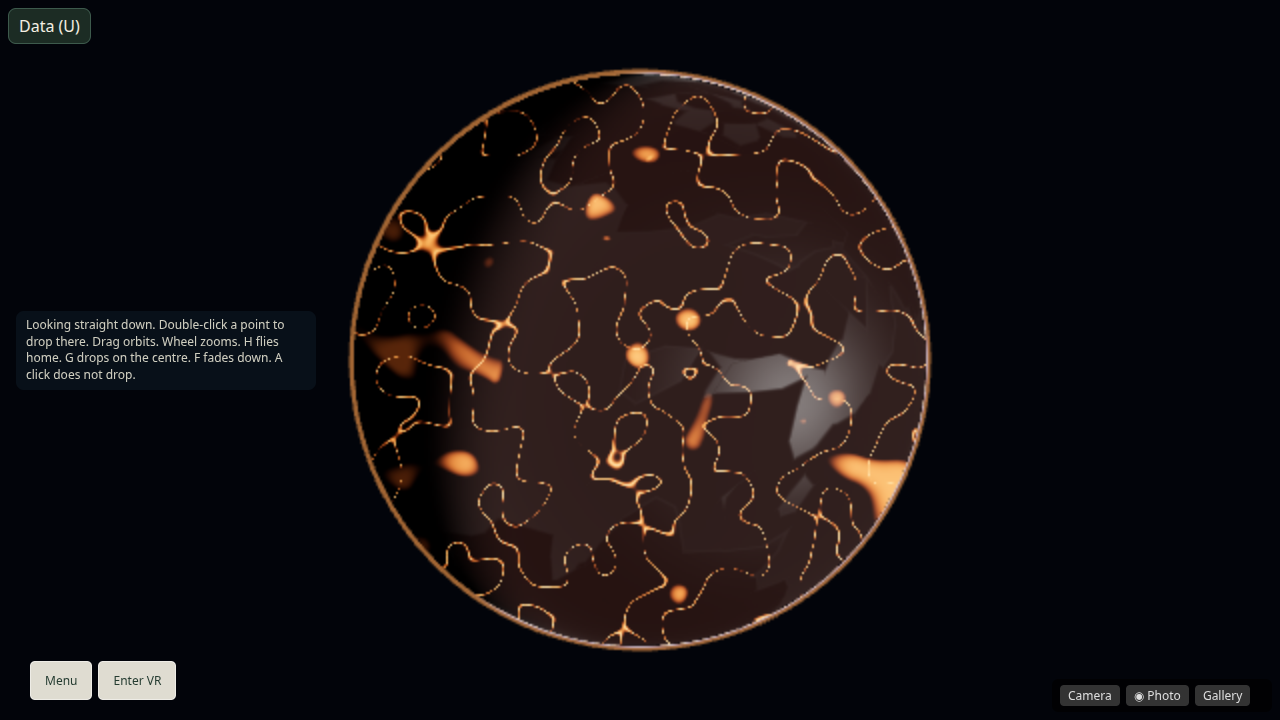
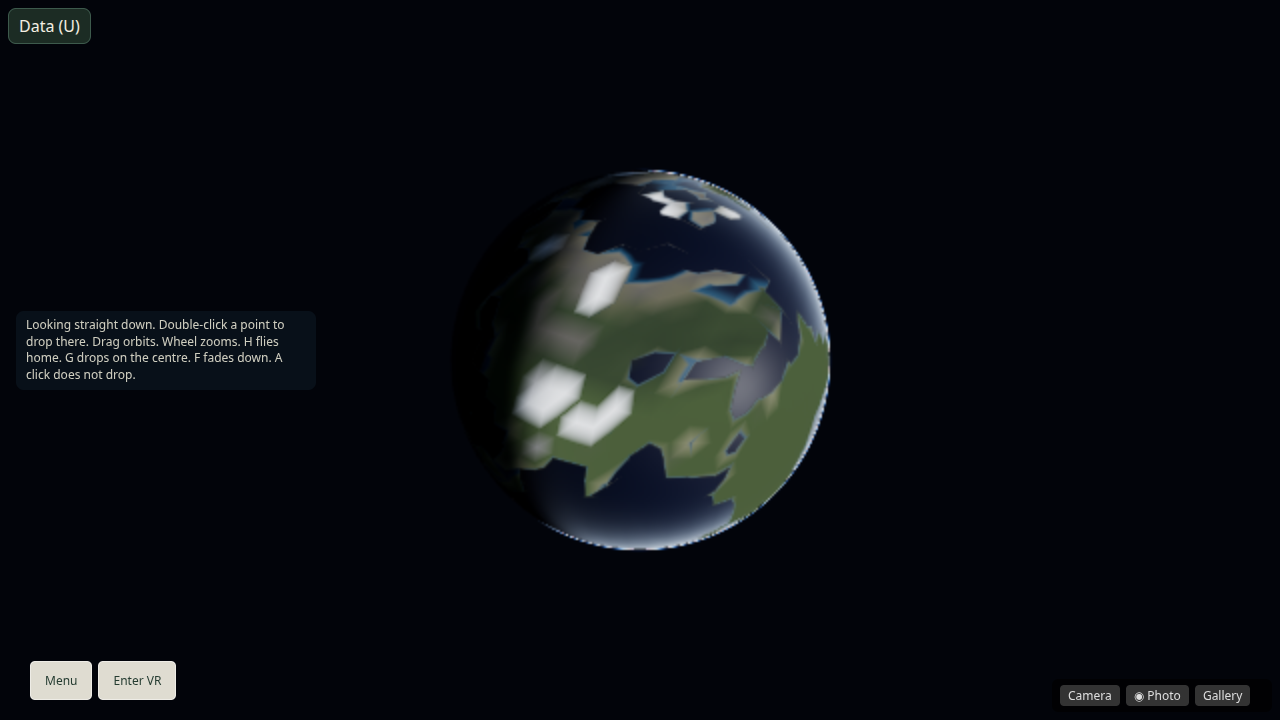
fix: land a skip on today's Earth (T-0219)
Escape jumps the film clock to the ending, paints that epoch, and then
uses the same finish as watching through. The arrival camera is placed
before release, so the globe is not left on the opening magma tint.

Changed region(s): [[0.25, 0.0917, 0.75, 0.9167]]

diff --git a/tests/cine-ready.test.ts b/tests/cine-ready.test.ts
@@ -6,6 +6,7 @@ import { cineArrivalDue, stepCineBoot } from '../src/world/cosmos/cineReady';
 import { createOpening } from '../src/world/cosmos/opening';
 import { cineLayerGateState } from '../src/world/globe/planetLayers';
 import { bootChoice, createContext, markBigBangSeen } from '../src/core/events';
+import { GLOBE_ERA, GLOBE_SKY } from '../src/world/globe/tile';
 import { BOOT_SAMPLES_MS, CINE_BOOT_TIMEOUT_S, CINE_HOLD_MARGIN, CINE_HOLD_S, PREWARM_SAMPLES_MS } from '../src/world/globe/bootReady';
 
 const boot = (over: Partial<Parameters<typeof stepCineBoot>[0]> = {}) => ({
@@ -213,6 +214,39 @@ function film(opts: { search?: string; reduced?: boolean; ready: () => Promise<v
   return { w, opening, probe, run, get shows() { return shows; }, get planets() { return planets; }, get marks() { return marks; }, get seen() { return ctx.introComplete === true; } };
 }
 
+function resetGlobeEra() {
+  GLOBE_ERA.uEra.value.set(0, 0, 0, 0);
+  GLOBE_ERA.uCrack.value = 1;
+  GLOBE_SKY.warm = 0;
+  GLOBE_SKY.steam = 0;
+  GLOBE_SKY.clear = 0;
+  GLOBE_SKY.hold = 0;
+}
+
+/** The era mix the globe shader uses, as one land/ocean colour. Today (w = 1) is the present sample. */
+function epochView() {
+  const era = GLOBE_ERA.uEra.value;
+  const x = Math.min(1, Math.max(0, era.x));
+  const y = Math.min(1, Math.max(0, era.y));
+  const z = Math.min(1, Math.max(0, era.z));
+  const w = Math.min(1, Math.max(0, era.w));
+  const crack = Math.min(1, Math.max(0, GLOBE_ERA.uCrack.value));
+  const crust = [0.03 + 0.27 * (1 - x), 0.01 + 0.24 * (1 - x), 0.008 + 0.192 * (1 - x)];
+  const magma = [1.85, 0.42, 0.07];
+  const skin = crust.map((c, i) => c * (1 - crack) + magma[i] * crack);
+  const flooded = 0.5 * (y <= 0.08 ? 0 : y >= 0.72 ? 1 : (y - 0.08) / 0.64) * (1 - x);
+  const ocean = [0.008, 0.028, 0.09];
+  const wet = skin.map((c, i) => c * (1 - flooded) + ocean[i] * flooded);
+  const plants = 0.5 * (z <= 0.4 ? 0 : Math.min(1, (z - 0.4) / 0.14));
+  const leaf = [0.09, 0.38, 0.08];
+  const grown = wet.map((c, i) => c * (1 - plants) + leaf[i] * plants);
+  const present = [0.18, 0.33, 0.14];
+  const presentMix = 1 - (1 - w) * (1 - w);
+  const colour = grown.map((c, i) => c * (1 - presentMix) + present[i] * presentMix);
+  const label = w >= 0.999 && x <= 0.001 ? 'Today' : 'earlier';
+  return { label, colour };
+}
+
 test('first-visit readiness paths', { concurrency: false }, async (t) => {
   await t.test('a settling boot keeps B14 arrival, one save mark, and the layer gate', async () => {
     const f = film({ ready: () => Promise.resolve() });
@@ -345,25 +379,41 @@ test('first-visit readiness paths', { concurrency: false }, async (t) => {
     assert.equal(f.w.events.length, 1);
   });
 
-  await t.test('Escape at about 5 s reaches the globe within 2 s', async () => {
+  await t.test('Escape at about 5 s reaches Today through the same finish as the ending', async () => {
+    resetGlobeEra();
     const f = film({ ready: () => Promise.resolve() });
     f.probe.begin();
     await Promise.resolve();
     while (f.probe.elapsed < 5) f.opening.step(0.5);
     assert.ok(f.probe.elapsed >= 5 && f.probe.elapsed < 5.6, `film clock ${f.probe.elapsed}`);
     assert.equal(f.planets, 0);
-    const at = f.probe.elapsed;
     const win = globalThis as unknown as { window: { dispatchEvent: (e: unknown) => void }; document: { body: unknown; getElementById: (id: string) => unknown } };
     win.window.dispatchEvent({
       type: 'keydown', key: 'Escape', code: 'Escape', repeat: false, target: win.document.body,
       preventDefault() {}, stopPropagation() {}, stopImmediatePropagation() {},
     });
     assert.equal(f.planets, 1, 'the planet entry did not run');
-    assert.ok(f.probe.elapsed < at + 2, `globe waited until ${f.probe.elapsed}`);
+    assert.ok(f.probe.elapsed >= CINE.b14End, `clock stopped at ${f.probe.elapsed}`);
+    assert.equal(formatClock(f.probe.elapsed), 'Today');
     assert.equal(f.marks, 1);
     assert.equal(f.seen, true);
-    assert.equal(f.w.events.filter(e => e === 'cinematic:dismiss').length, 1);
+    assert.equal(f.w.events.filter(e => e === 'cinematic:complete').length, 1);
     assert.equal(win.document.getElementById('cine'), null);
+    const skip = epochView();
+    resetGlobeEra();
+    const done = film({ ready: () => Promise.resolve() });
+    done.probe.begin();
+    await Promise.resolve();
+    for (let i = 0; i < 200 && done.planets === 0; i++) done.opening.step(1);
+    assert.equal(done.planets, 1);
+    assert.equal(formatClock(done.probe.elapsed), 'Today');
+    const natural = epochView();
+    assert.equal(skip.label, natural.label);
+    assert.equal(skip.label, 'Today');
+    for (let i = 0; i < 3; i++) {
+      const rel = Math.abs(skip.colour[i] - natural.colour[i]) / Math.max(0.02, Math.abs(natural.colour[i]));
+      assert.ok(rel <= 0.10, `channel ${i} skip ${skip.colour[i].toFixed(3)} vs finish ${natural.colour[i].toFixed(3)}`);
+    }
   });
 
   await t.test('reduced motion still lands and does not arm the cinematic layer gate', async () => {

diff --git a/src/world/cosmos/opening.ts b/src/world/cosmos/opening.ts
@@ -240,7 +240,24 @@ export function createOpening(onPlanet: () => void, onBegin?: () => void, earth?
       sphere.setFraming(50 + (46 - 50) * u, reduced ? 1 : 1 + Math.max(0, Math.min(1, (elapsed - bangAt(end)) / 1.2)) * 0.18);
       if (!busy) { busy = true; void paintSim().finally(() => { busy = false; }); }
     },
-    skip() { land('cinematic:dismiss'); },
+    skip() {
+      if (arrived || stopped) return;
+      if (!begun) begin();
+      // The ending paints Today and the arrival camera, then lands. Jump the
+      // clock there and run that same paint, so a skip does not leave the
+      // magma uniform or the page-load orbit from the start of the film.
+      if (narrationEndedAt == null) narrationEndedAt = narrationEndFallback();
+      pinned = null;
+      elapsed = CINE.b14End;
+      if (!earthOn) {
+        earthOn = true;
+        earth?.show();
+      }
+      if (!booted) bootGaveUp = true;
+      tintGlobe(elapsed);
+      driveFilm(elapsed);
+      paintDom();
+    },
     stop() {
       if (stopped) return;
       stopped = true;

diff --git a/src/world/globe/globeView.ts b/src/world/globe/globeView.ts
@@ -791,6 +791,12 @@ export function createGlobe(renderer: THREE.WebGLRenderer, opts: GlobeOptions) {
       filmOffset = offset;
       filmSpin.setFromAxisAngle(filmAxis, yaw);
       alt = targetAlt = R * radii;
+      dir.copy(filmHome).applyQuaternion(filmSpin);
+      ground = surfaceRadius(planet, [dir.x, dir.y, dir.z]) - R;
+      camera.up.set(0, 1, 0);
+      camera.position.copy(dir).multiplyScalar(R + ground + alt);
+      camera.lookAt(0, 0, 0);
+      camera.clearViewOffset();
     },
     /** Aim the centre at a game-local spot without starting the fall. The next G, before a drag, drops there. */
     lookOver,

diff --git a/tasks/handoffs/T-0219-grokbot-2.md b/tasks/handoffs/T-0219-grokbot-2.md
@@ -4,19 +4,19 @@ Branch `grokbot-2/intro-skip`, off main `0e2cf8e4`.
 
 ## Doing
 
-The first-visit film now leaves on Escape, space, or a click after it has started. The exit is `land('cinematic:dismiss')`: the T-0167 seen event, `markBigBangSeen`, `stop()`, then `onPlanet` (`finishIntro`).
+The first-visit film now leaves on Escape, space, or a click after it has started. The skip sets the film clock to the end (`b14End`, label Today), runs `tintGlobe` and `driveFilm` for that time, then `paintDom` lands through `cinematic:complete` and `finishIntro`. The epoch is not left on the opening magma tint.
 
 ## Done
 
 - `src/world/cosmos/opening.ts`
-- `tests/cine-ready.test.ts` — Escape at about 5 s, planet callback before another 2 s, overlay gone, `introComplete` set
-- `tests/cine-beats.test.ts` — the old "first visit does not skip" line now expects the dismiss path
-- Frames: `tasks/evidence/T-0219/before-5s.png`, `tasks/evidence/T-0219/after-escape.png`
-- Chrome SwiftShader, `?start=sphere&stages=1&trees=v2&noprobe=1`. Film clock 5.93 s at Escape. `__inpage.mode` was `globe` 7 ms later. After settle, altitude 14016219 m.
+- `src/world/globe/globeView.ts` places the film camera inside `setFilmDrive`, so `releaseFilm` keeps the arrival orbit
+- `tests/cine-ready.test.ts` — Escape at about 5 s, clock at the end, label Today, mean era colour within 10% of a natural finish
+- Frames: `tasks/evidence/T-0219/before-5s.png`, `after-escape.png`, `natural-finish.png`, `side-escape-finish.png`
+- Chrome SwiftShader. Skip altitude 23572732 m, the same as the natural finish. Whole-frame mean RGB within 2.4%.
 
 ## Next
 
-Open the PR. Do not merge it from this agent.
+Push to the open PR. Do not merge it from this agent.
 
 ## Needs from another agent
 

diff --git a/tasks/T-0219-intro-skip.md b/tasks/T-0219-intro-skip.md
@@ -29,4 +29,6 @@ Credits 20 = 10 x 2 objectives. Not from scratch: `cinematic:dismiss`, `markBigB
 ## Frames
 
 - Before: `tasks/evidence/T-0219/before-5s.png`. Black, one pinpoint, the line "It was called…". The film is still up at 5.9 s.
-- After: `tasks/evidence/T-0219/after-escape.png`. The orbit disc, Menu and Enter VR, altitude about 1.40e7 m, `#cine` gone. Escape to that view was 7 ms.
+- After, skip: `tasks/evidence/T-0219/after-escape.png`. Today's Earth, same orbit as the ending.
+- Natural finish: `tasks/evidence/T-0219/natural-finish.png`.
+- Side by side: `tasks/evidence/T-0219/side-escape-finish.png`. Whole-frame mean RGB within 2.4%.
